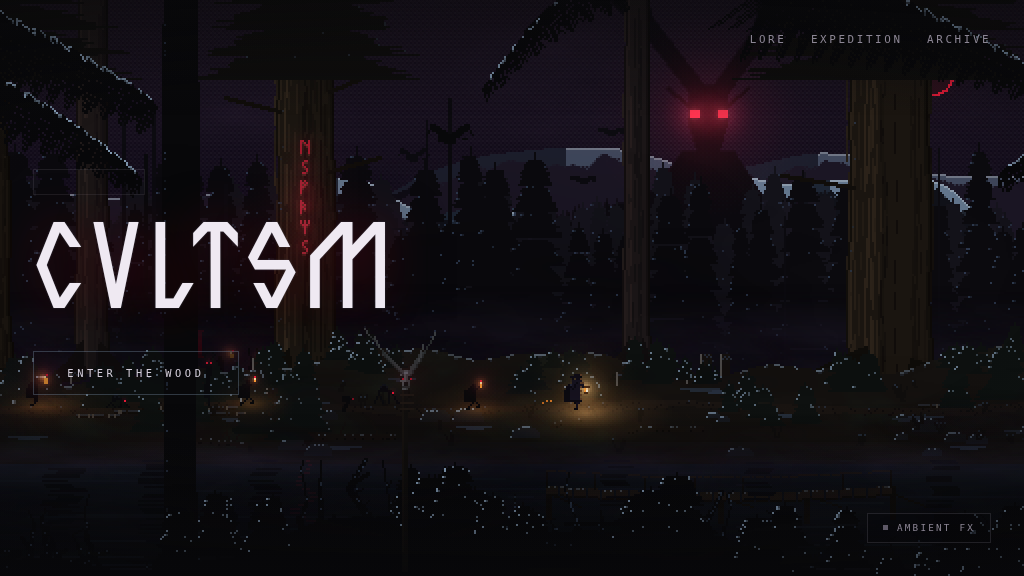
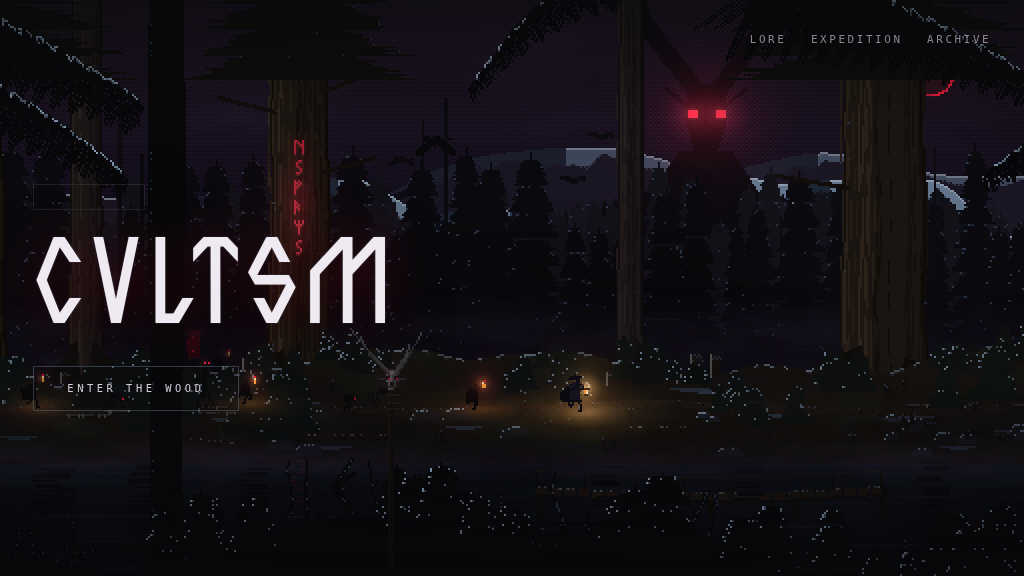
Remove the ambient fx toggle and all audio
The toggle was the only thing in the footer, so the footer goes with it and
the interface grid drops to two rows. Deleted js/audio.js outright rather
than leaving a dormant module, along with the .footbar/.controls/.toggle
styles that nothing referenced any more.

The page is now silent by construction: no audio files, no media elements,
and no Web Audio at all. Verified by stubbing AudioContext and
webkitAudioContext to throw on construction — nothing attempted to build one,
before or after a click.

Remaining page text is the three nav links, the wordmark and the CTA.

Claude-Session: https://claude.ai/code/session_01GcsBKBmhDLEgLM9aY7efkW

diff --git a/css/style.css b/css/style.css
@@ -100,7 +100,7 @@ a { color: inherit; text-decoration: none; }
   inset: 0;
   z-index: 3;
   display: grid;
-  grid-template-rows: auto 1fr auto;
+  grid-template-rows: auto 1fr;
   padding: var(--edge-top) var(--gutter) var(--edge-bottom);
   pointer-events: none;           /* the scene stays draggable underneath */
 }
@@ -240,45 +240,6 @@ a { color: inherit; text-decoration: none; }
 .ghost:hover::before, .ghost:focus-visible::before { opacity: 1; }
 .ghost:active { transform: translateY(1px); }
 
-/* ---------------------------------------------------------------- footbar */
-
-.footbar {
-  display: flex;
-  align-items: flex-end;
-  justify-content: flex-end;
-}
-
-.controls { display: flex; gap: 0.75rem; }
-
-.toggle {
-  display: inline-flex;
-  align-items: center;
-  gap: 0.55rem;
-  padding: 0.55rem 0.95rem;
-  border: 1px solid rgba(140, 134, 148, 0.2);
-  background: rgba(8, 8, 10, 0.3);
-  color: var(--muted);
-  font: inherit;
-  font-size: 0.58rem;
-  letter-spacing: 0.24em;
-  text-transform: uppercase;
-  cursor: pointer;
-  transition: color 0.3s var(--ease), border-color 0.3s var(--ease);
-}
-.toggle:hover { color: #ddd7e4; border-color: rgba(155, 183, 212, 0.4); }
-
-.toggle__dot {
-  width: 5px;
-  height: 5px;
-  background: var(--muted-dim);
-  transition: background-color 0.3s var(--ease), box-shadow 0.3s var(--ease);
-}
-.toggle[aria-pressed='true'] { color: #ddd7e4; border-color: rgba(230, 28, 56, 0.35); }
-.toggle[aria-pressed='true'] .toggle__dot {
-  background: var(--crimson);
-  box-shadow: 0 0 10px var(--crimson);
-}
-
 /* ------------------------------------------------------------------- boot */
 
 .boot {
@@ -324,7 +285,7 @@ a { color: inherit; text-decoration: none; }
 /* ------------------------------------------------------------ responsive */
 
 @media (max-width: 860px) {
-  .hero { align-self: end; padding-bottom: 2.5rem; }
+  .hero { align-self: end; padding-bottom: 3.5rem; }
 }
 
 @media (max-width: 560px) {

diff --git a/js/main.js b/js/main.js
@@ -1,14 +1,11 @@
 /**
- * Boot. Wires the engine to the interface: the rain and ambient toggles and
- * the reduced-motion contract.
+ * Boot. Wires the engine to the page and honours the reduced-motion contract.
  */
 import { createEngine } from './engine.js';
-import { createAmbience } from './audio.js';
 
 const motionQuery = window.matchMedia('(prefers-reduced-motion: reduce)');
-const canvas = document.getElementById('scene');
 
-const engine = createEngine(canvas, {
+const engine = createEngine(document.getElementById('scene'), {
   reducedMotion: motionQuery.matches,
   onReady() {
     // one frame of grace so the first composite lands before the veil lifts
@@ -21,12 +18,3 @@ const engine = createEngine(canvas, {
 engine.start();
 
 motionQuery.addEventListener('change', (e) => engine.setReducedMotion(e.matches));
-
-/* ------------------------------------------------- ambient fx (no music) */
-
-const ambience = createAmbience();
-const ambientBtn = document.getElementById('ambient');
-ambientBtn.addEventListener('click', async () => {
-  const on = await ambience.toggle();
-  ambientBtn.setAttribute('aria-pressed', String(!!on));
-});

diff --git a/index.html b/index.html
@@ -55,14 +55,6 @@
       <a class="ghost" href="#expedition"><span>Enter the wood</span></a>
     </div>
   </main>
-
-  <footer class="footbar">
-    <div class="controls">
-      <button type="button" class="toggle" id="ambient" aria-pressed="false">
-        <span class="toggle__dot"></span>Ambient fx
-      </button>
-    </div>
-  </footer>
 </div>
 
 <!-- boot veil: lifts once every layer has been generated -->

diff --git a/README.md b/README.md
@@ -76,14 +76,11 @@ The wood walks by itself and the pointer never moves the camera — the forest
 simply passes behind him. Input only changes the pace:
 
 - **Scroll / drag / swipe / ← →** — push the journey forward or hold it back
-- **Ambient fx** — optional wind bed
 
 ## Audio
 
-There is **no background music**, and no audio file of any kind. The optional
-ambient toggle synthesises filtered white noise with the Web Audio API —
-wind-led, gusting on slow LFOs, with only a thin wash of damp air over the
-top. It is off by default and never starts without a user gesture.
+None. The page is silent: no music, no audio files, no Web Audio — nothing
+that can make a sound.
 
 ## Performance & accessibility
 
@@ -104,7 +101,6 @@ css/style.css       interface, vignette, responsive rules
 fonts/              Valhalica, the display face
 js/main.js          boot: wires engine to the UI
 js/engine.js        framebuffer sizing, world travel, tiled composition
-js/audio.js         ambient wind synthesis (no music)
 js/palette.js       the scene palette and depth factors
 js/runes.js         rune glyph bitmaps
 js/lib/rng.js       seeded PRNG, value noise, tiling fBm, ridgelines
